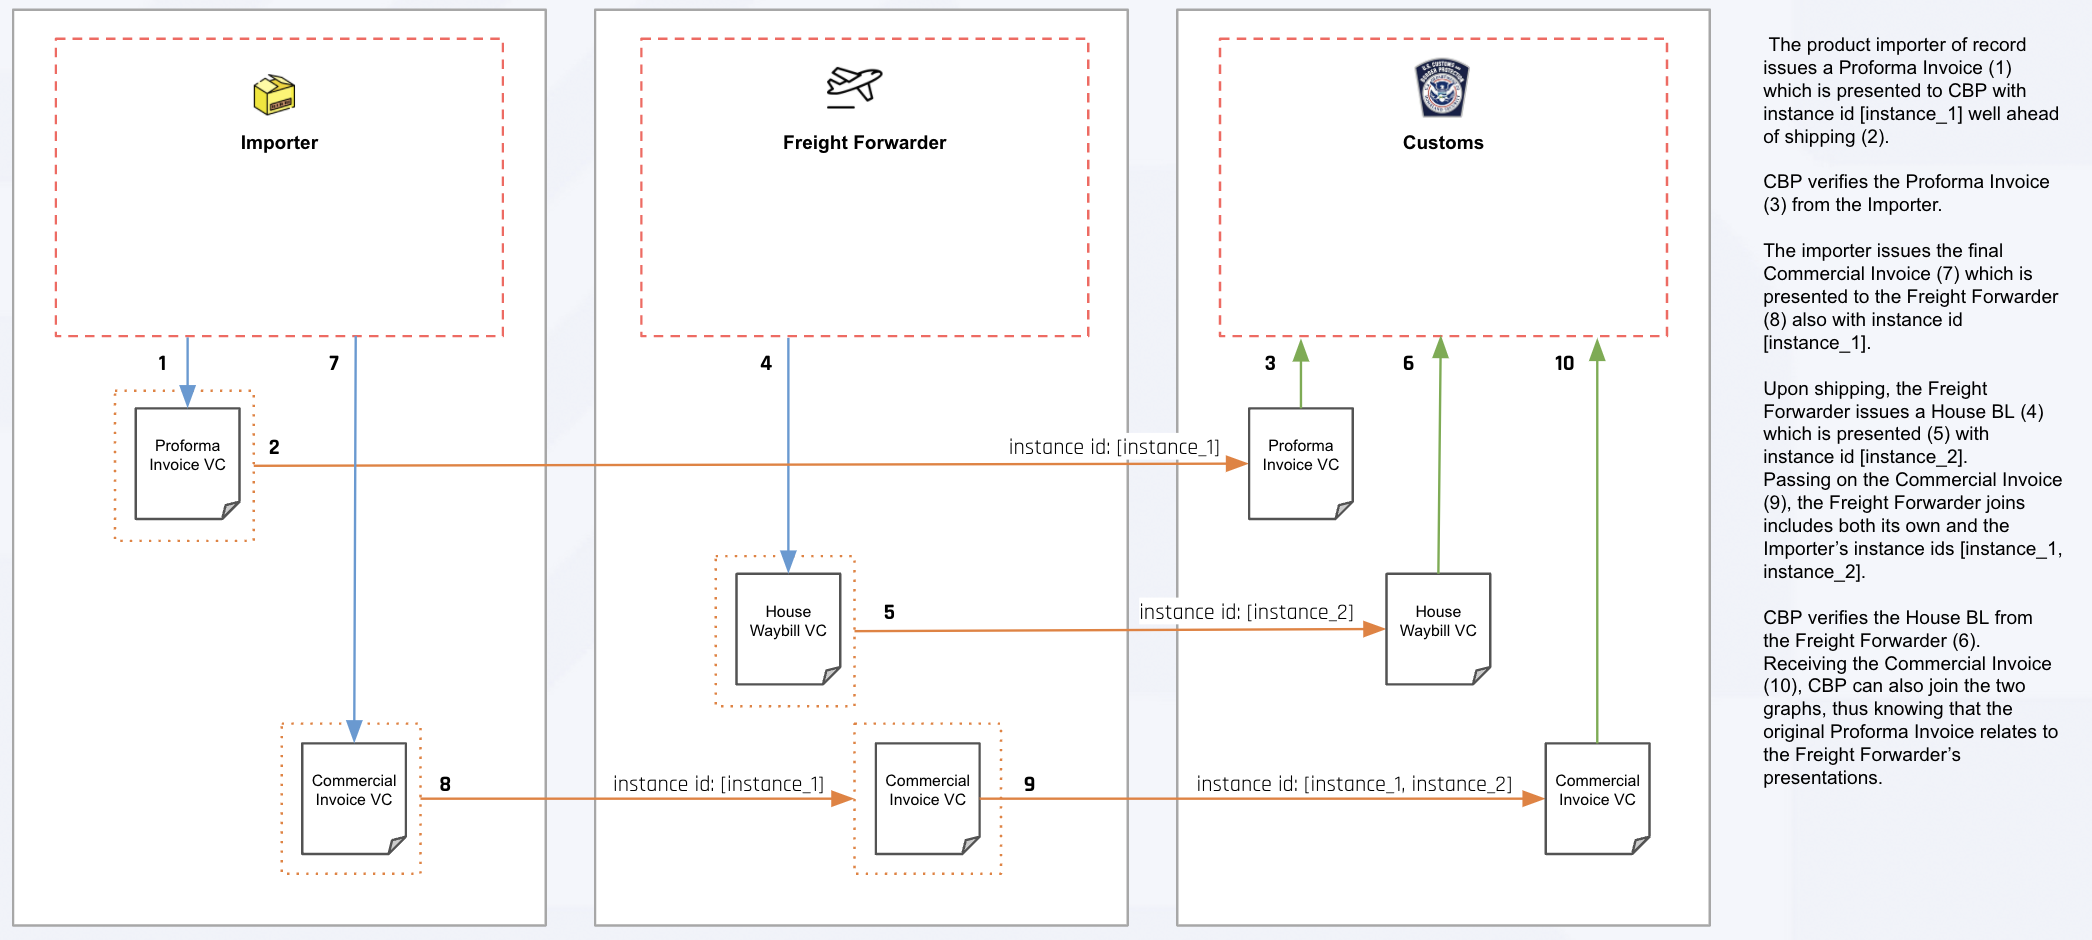
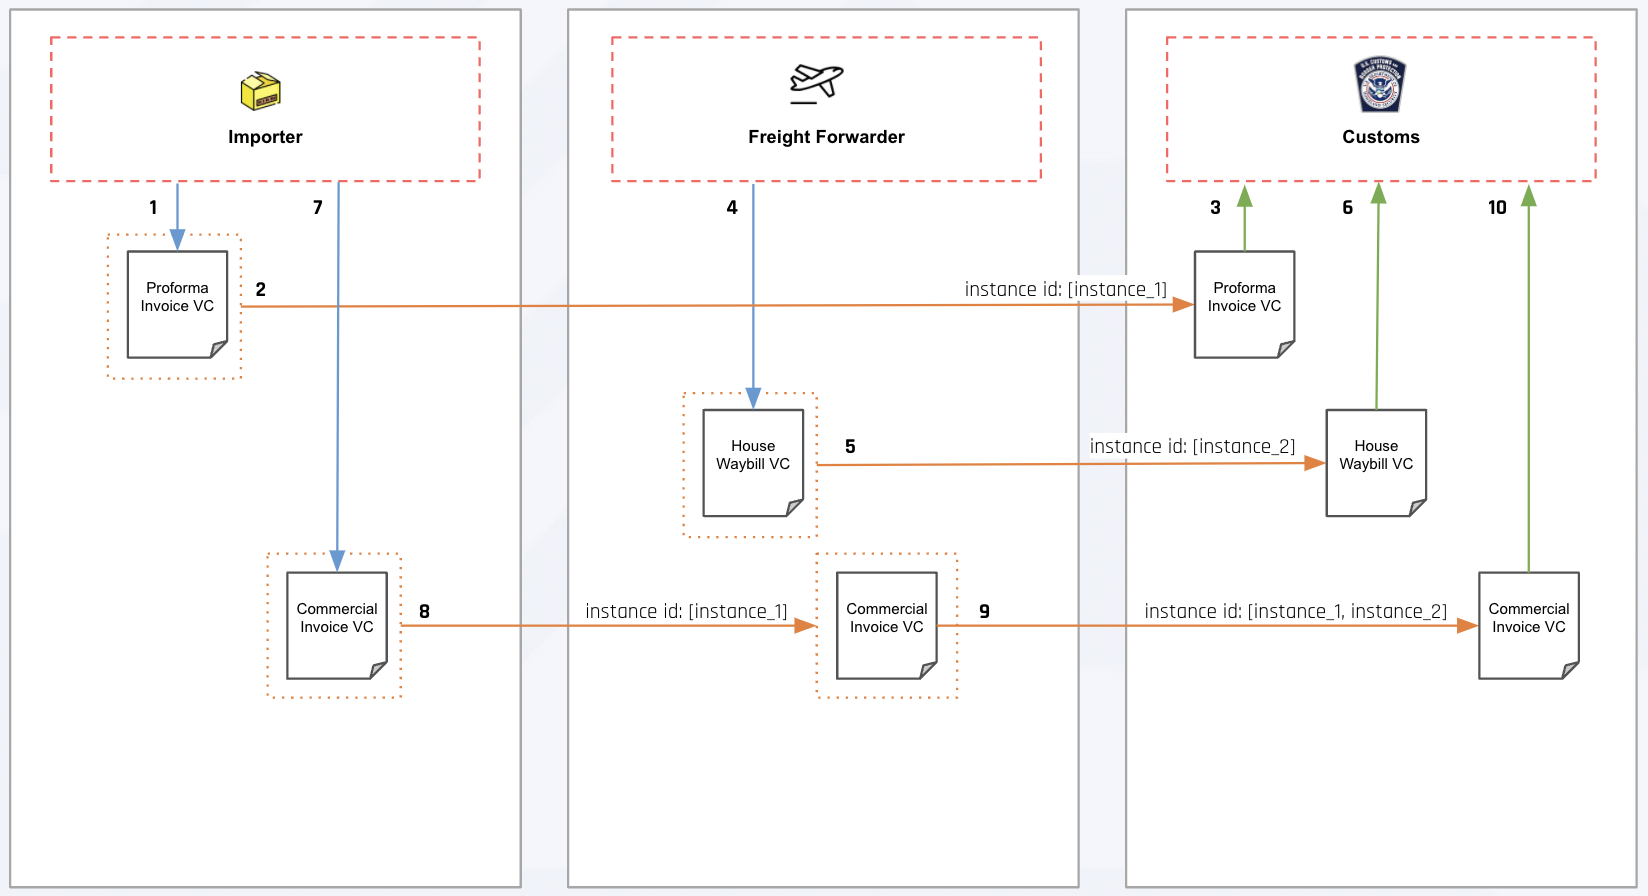
feat: workflow instance join readme

diff --git a/docs/tutorials/workflow-join/README.md b/docs/tutorials/workflow-join/README.md
@@ -1,0 +1,19 @@
+# Joining Workflow Instances
+
+<img src="./workflow-instance-join.png"/>
+
+This is an eCommerce business workflow which demonstrates joining two individual workflow into a common graph, leveraging workflow instance ids. A total of three organizations collaboration in this scenario. Two organizations (Importer and Freight Forwarder) first make individual presentations to a third org (Customs). When the correlation is realized, the workflows instances are joined with `["instance_1", "instance_2"]`.
+
+## Business Focused Workflow Steps
+The product importer of record issues a Proforma Invoice (1) which is presented to Customs with instance id `["instance_1"]` well ahead of shipping (2). 
+
+Customs verifies the Proforma Invoice (3) from the Importer.
+
+The importer issues the final Commercial Invoice (7) which is presented to the Freight Forwarder (8) also with instance id `["instance_1"]`.
+
+Upon shipping, the Freight Forwarder issues a House BL (4) which is presented (5) with instance id `["instance_2"]`.
+Passing on the Commercial Invoice (9), the Freight Forwarder joins includes both its own and the Importer’s instance ids `["instance_1", "instance_2"]`. 
+
+Customs verifies the House BL from the Freight Forwarder (6). 
+Receiving the Commercial Invoice (10), Customs can also join the two graphs, thus knowing that the original Proforma Invoice relates to the Freight Forwarder’s presentations. 
+
